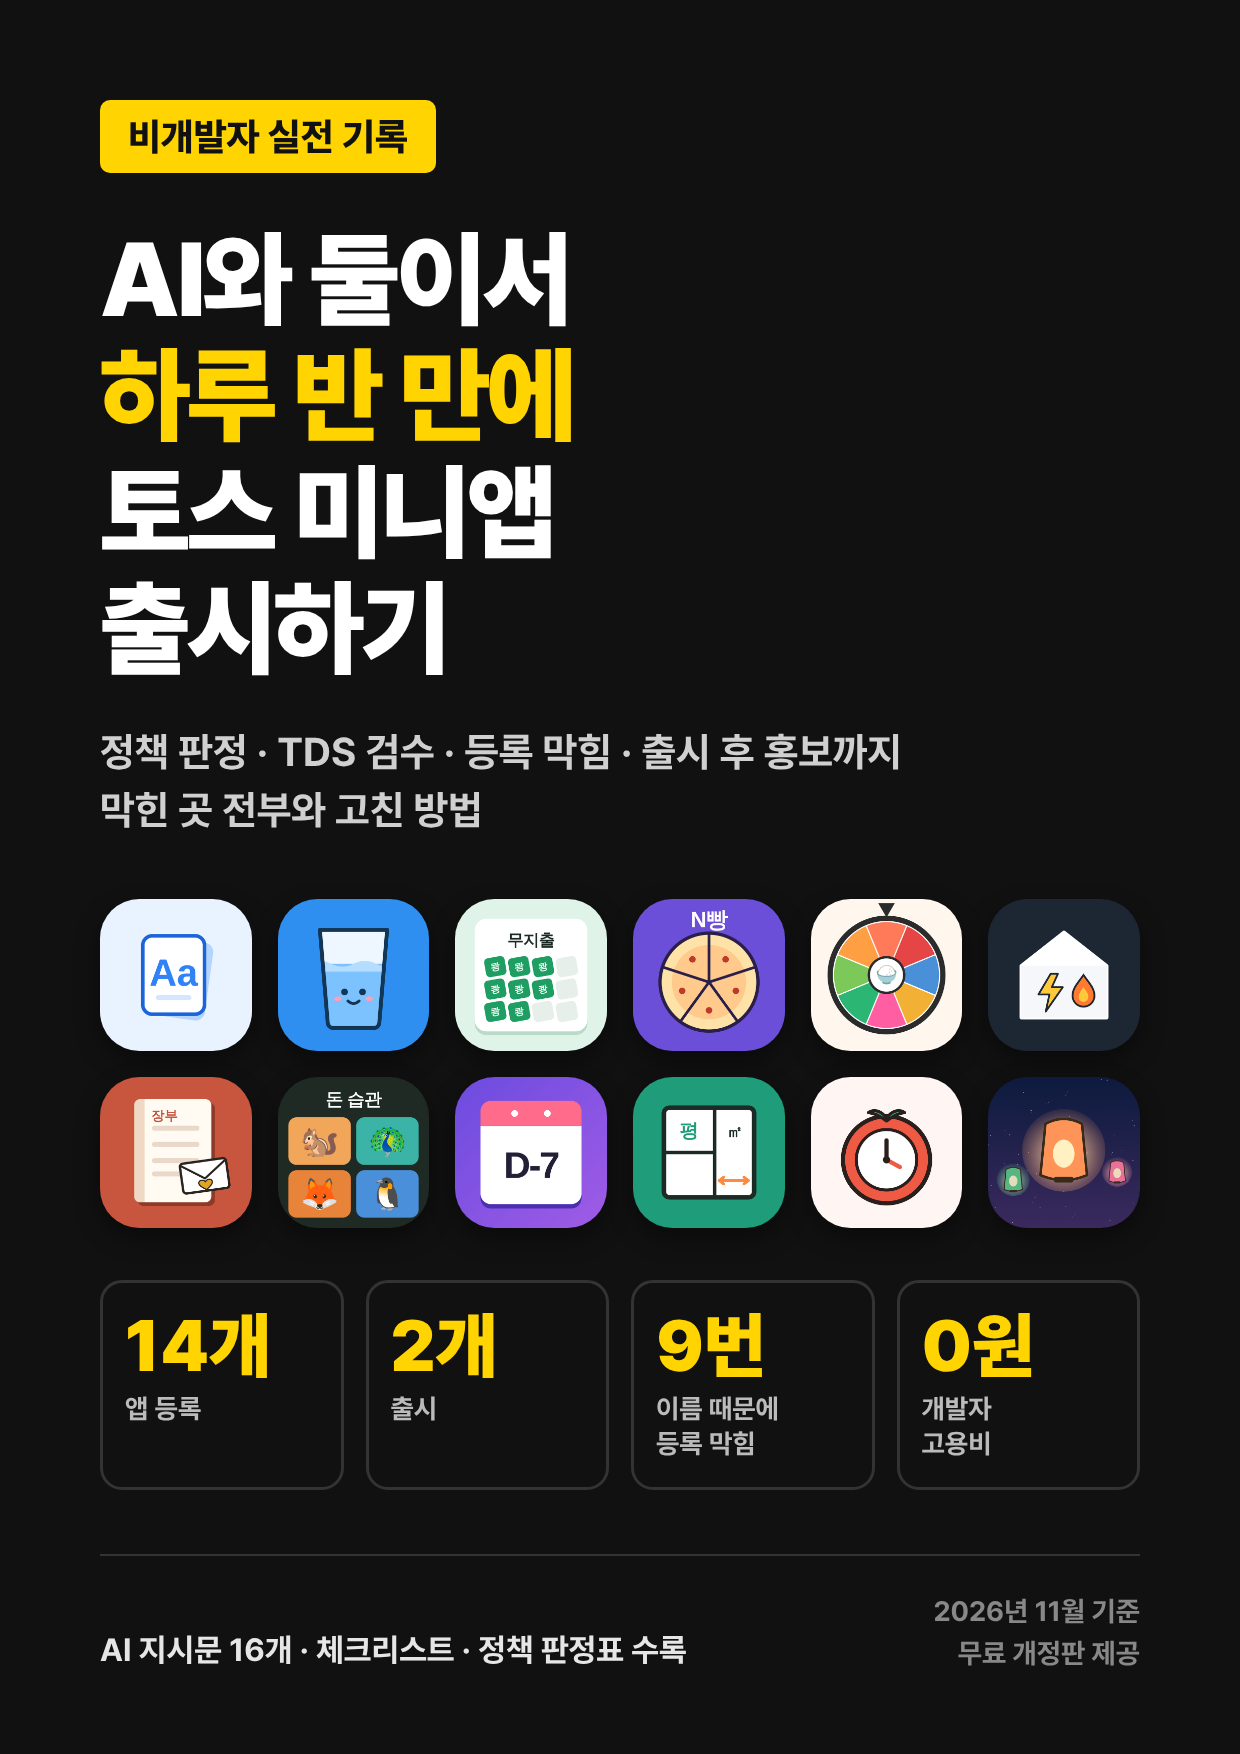
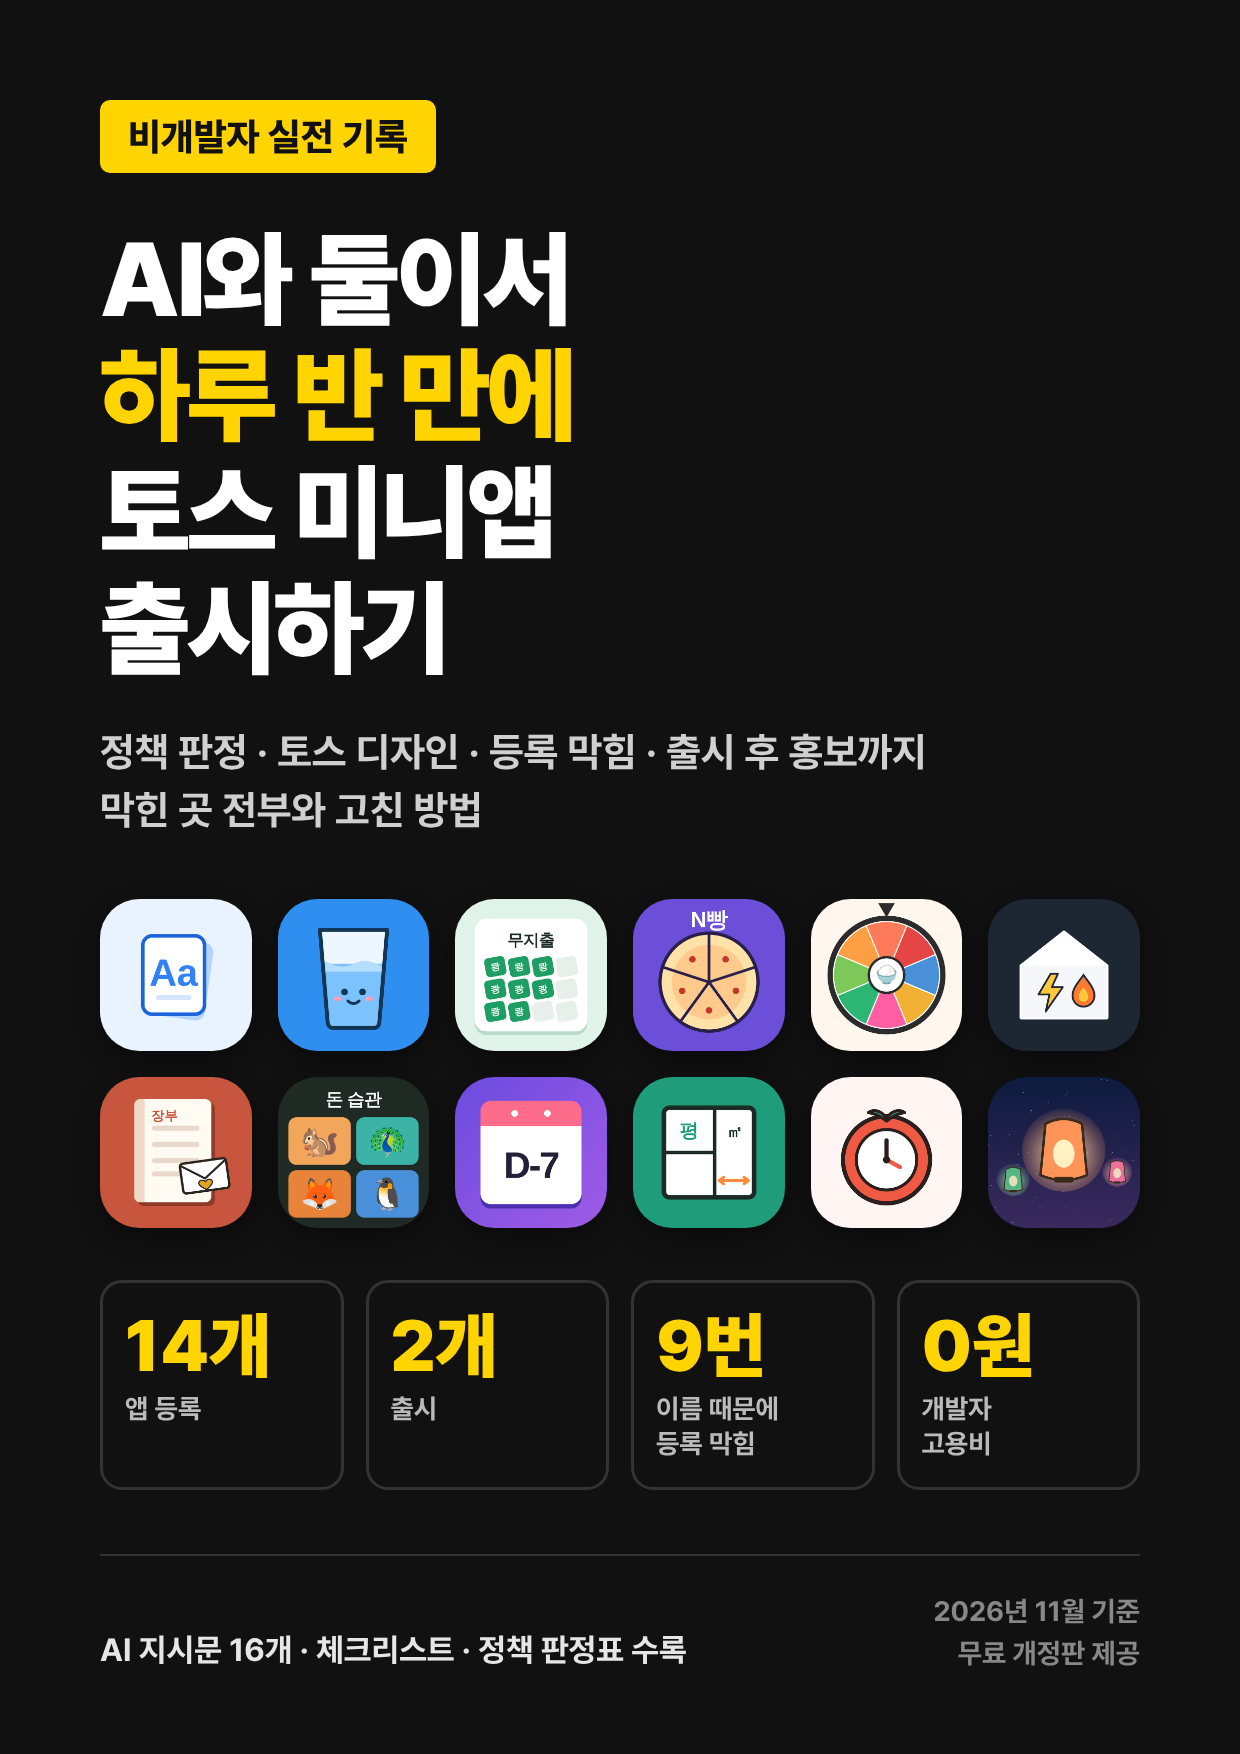
Typeset the e-book PDF and make Kmong store images
build/build.cjs turns the manuscript into an A4 PDF in the cover A
style (chapter openers, prompt boxes, checklists, figures, colophon).
store/ has six detail-page sections and seven preview pages. Figures
4-1, 5-1 and 5-2 come from our app screenshots; console captures follow
from the PC. Cover subtitle now says 토스 디자인 instead of TDS 검수.

Claude-Session: https://claude.ai/code/session_01ND7gMCWC2g7V3FQGFk95kK

Changed region(s): [[0.2145, 0.4002, 0.7355, 0.4618]]

diff --git a/projects/ebook/manuscript/06_콘솔_등록_막힘_전부.md b/projects/ebook/manuscript/06_콘솔_등록_막힘_전부.md
@@ -1,4 +1,4 @@
-# 6장. 콘솔 등록에서 막히는 것 전부 — 이름 중복 9번과 입력칸 오류 모음
+# 6장. 콘솔 등록에서 막히는 것 전부 — 이름 때문에 막힌 9번과 입력칸 오류 모음
 
 > v0.2 (2026-11-25, 사실 확인 반영).
 
